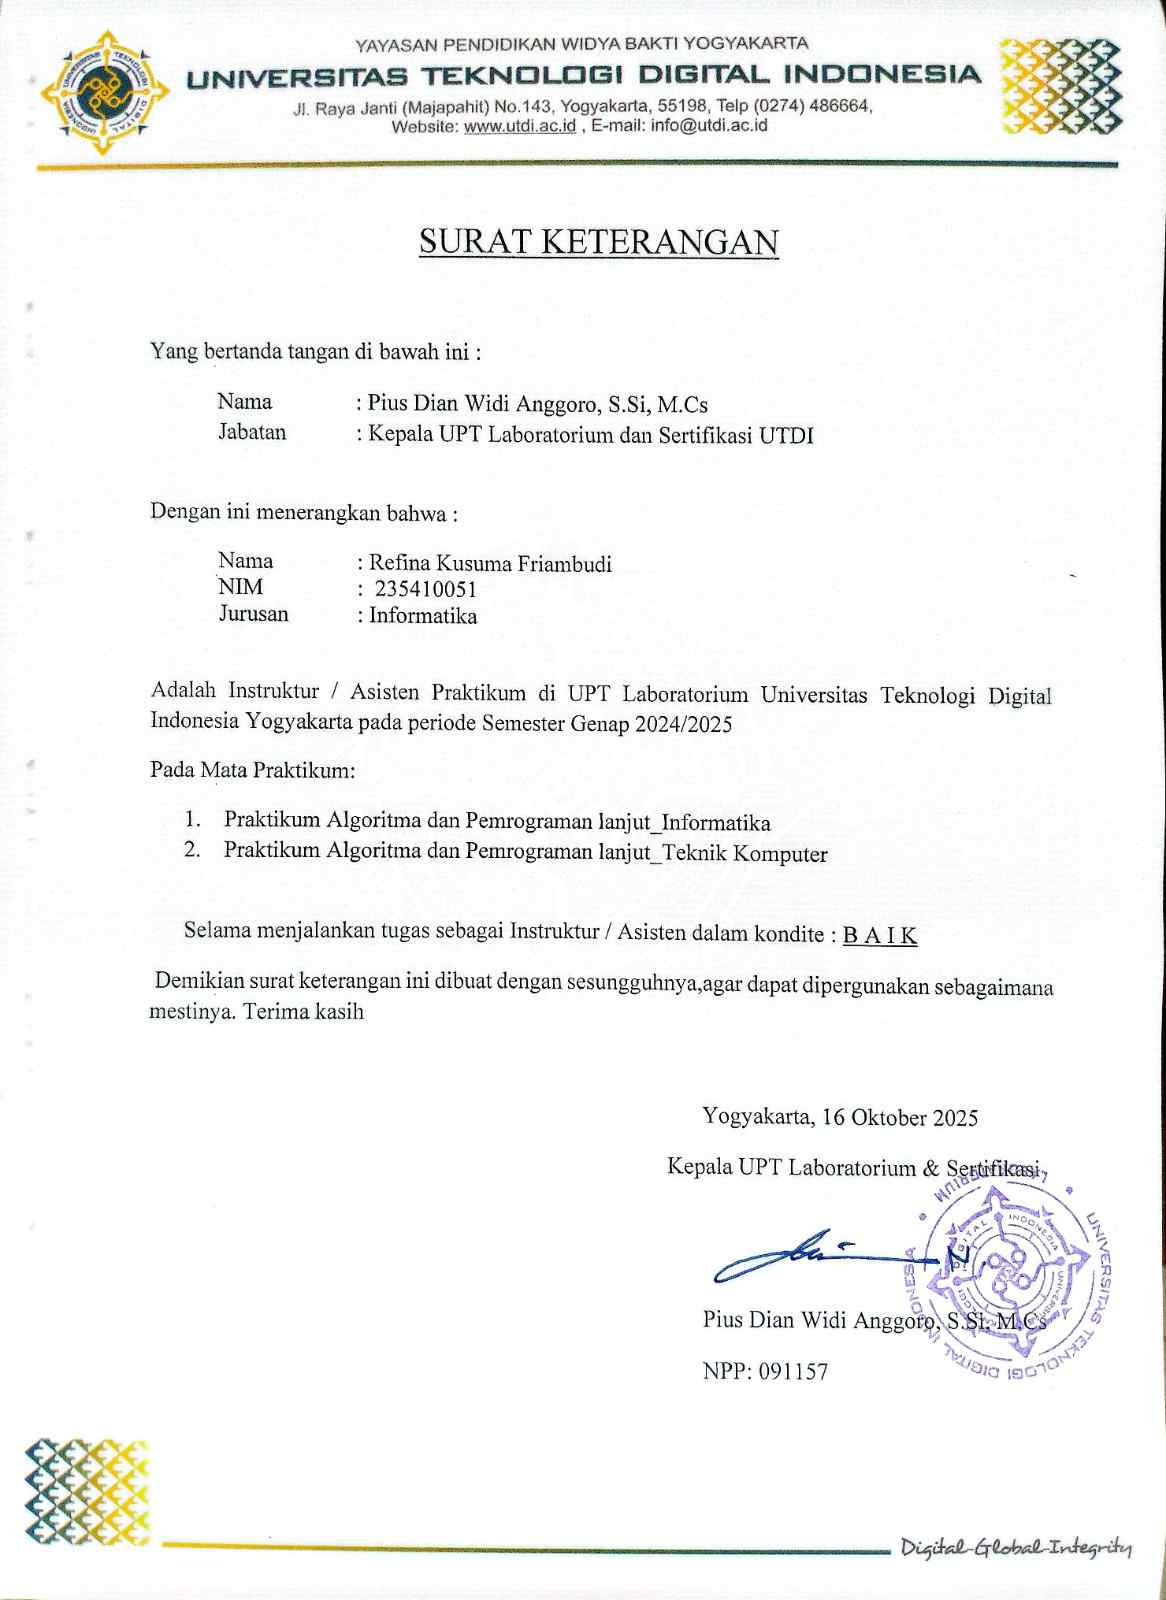
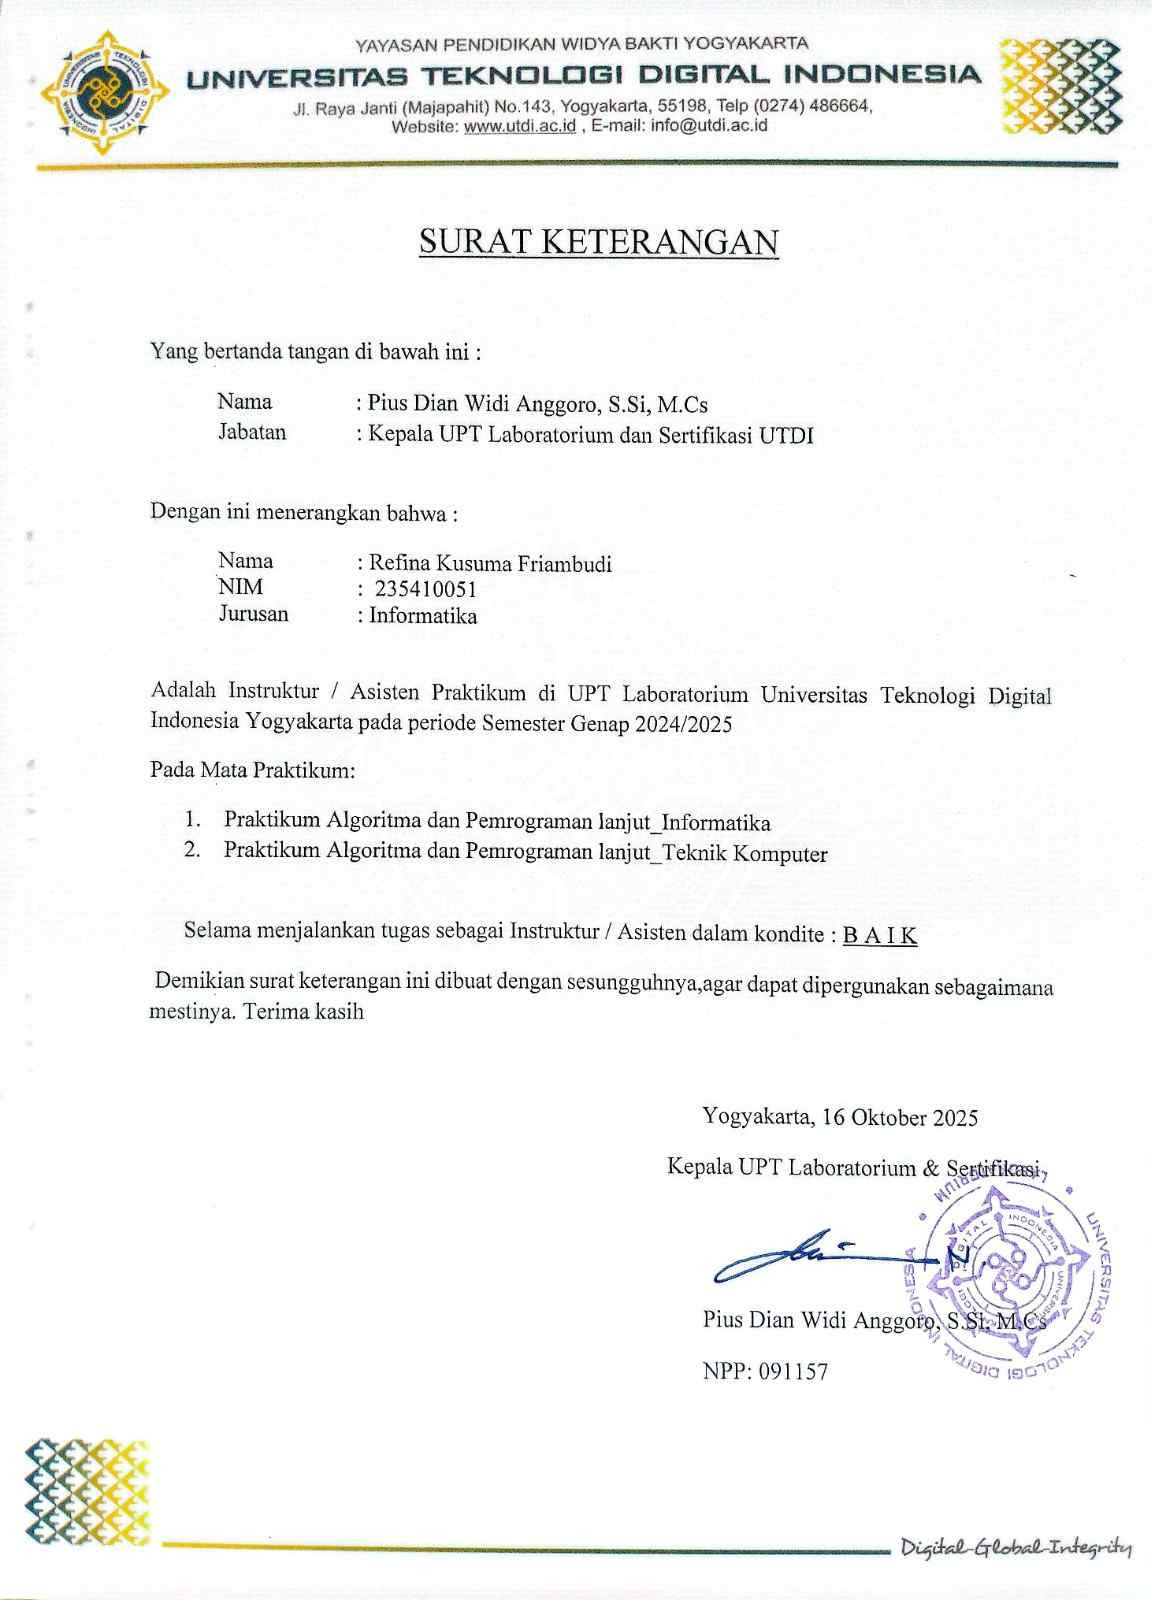
feat: implement Experience component with tabbed interface for career milestones, technical stack, and certificates

diff --git a/src/components/Experience.jsx b/src/components/Experience.jsx
@@ -29,7 +29,7 @@ const EXPERIENCE_ITEMS = [
     period: "2023 - 2024",
     title: "Assistant Lecturer",
     organization: "Advanced Algorithm and Programming Practicum (2024)",
-    color: "#f3e8ff", // Soft purple paper
+    color: "#ffffff", // Pure white for clean contrast
     certificate: {
       label: "Practicum Assistant Certificate",
       detail: "Klik untuk melihat sertifikat yang diperoleh pada kegiatan Advanced Algorithm and Programming Practicum (2024).",
@@ -44,7 +44,7 @@ const EXPERIENCE_ITEMS = [
     period: "2023 - 2024",
     title: "Secretary",
     organization: "Informatics & Computer Student Activity Unit",
-    color: "#d8b4fe", // Medium lilac paper
+    color: "#f3e8ff", // Soft Lilac (Purple-100)
     certificate: {
       label: "Secretary Certificate",
       detail: "Klik untuk melihat sertifikat yang terkait dengan administrasi organisasi dan kegiatan internal.",
@@ -56,11 +56,11 @@ const EXPERIENCE_ITEMS = [
     ],
   },
   {
-    period: "2024 - Until Now",
+    period: "2025 - Until Now",
     title: "Web Developer Intern",
     organization: "Internship Team Project",
-    color: "#a855f7", // Deep purple paper
-    dark: true,
+    color: "#e9d5ff", // Muted Purple (Purple-200)
+    dark: false,
     points: [
       "Developed an internship monitoring system to track student activities and progress in real-time, while building responsive interfaces with React.js, optimizing performance through reusable components, and designing user-friendly dashboards for efficient monitoring and reporting.",
     ],
@@ -118,17 +118,21 @@ export default function Experience() {
     },
   };
 
+  const itemVariants = {
+    hidden: { opacity: 0, y: 30 },
+    visible: { opacity: 1, y: 0, transition: { duration: 0.8, ease: cubicBezier } }
+  };
+
+
   return (
-    <section id="experience" className="bg-[#e9d5ff] min-h-screen py-32 px-6 md:px-16 relative overflow-hidden">
-      {/* ─── SMOOTH SECTION TRANSITION: About Me → Experience ─── */}
-      {/* Fades from About Me cream (#F5EFE6) into the lilac background */}
-      <div 
-        className="absolute top-0 left-0 right-0 pointer-events-none z-0"
-        style={{
-          height: "280px",
-          background: "linear-gradient(to bottom, #F5EFE6 0%, #efe1ff 40%, transparent 100%)"
-        }}
-      />
+    <section 
+      id="experience" 
+      className="min-h-screen py-32 px-6 md:px-16 relative overflow-hidden"
+      style={{
+        background:
+          "linear-gradient(180deg, #F5EFE6 0%, #fdfaff 25%, #f3e8ff 60%, #e9d5ff 100%)",
+      }}
+    >
 
       {/* ─── DECORATIVE GRAIN ─── */}
       <div className="absolute inset-0 pointer-events-none opacity-[0.03] grain-texture" />
@@ -213,7 +217,7 @@ export default function Experience() {
                         <motion.button
                           whileHover={{ scale: 1.05, backgroundColor: item.dark ? "#ffffff" : "#2e1065", color: item.dark ? "#2e1065" : "#fdfaff" }}
                           whileTap={{ scale: 0.95 }}
-                          onClick={() => setSelectedCert(item.certificate)}
+                          onClick={() => setSelectedCert(item)}
                           className={`px-6 py-2 rounded-full border text-[9px] md:text-[10px] font-black tracking-[0.2em] transition-all duration-300 uppercase bg-transparent ${item.dark ? "border-white/60 text-white" : "border-[#2e1065]/40 text-[#2e1065]"}`}
                         >
                           View
@@ -263,7 +267,7 @@ export default function Experience() {
                           whileInView={{ opacity: 1, y: 0 }}
                           viewport={{ once: true }}
                           transition={{ duration: 0.9, ease: cubicBezier, delay: 0.4 + index * 0.1 }}
-                          className={`text-sm md:text-lg leading-relaxed font-light max-w-md ${item.dark ? "text-white/80" : "text-[#2e1065]/60"}`}
+                          className={`text-sm md:text-lg leading-relaxed font-light max-w-md text-justify ${item.dark ? "text-white/80" : "text-[#2e1065]/60"}`}
                         >
                           {item.points.map((point, pIndex) => (
                             <p key={pIndex}>{point}</p>
@@ -350,16 +354,18 @@ export default function Experience() {
                   <motion.div 
                     key={index} 
                     variants={itemVariants} 
-                    whileHover={{ y: -5 }}
-                    className="bg-white p-10 rounded-3xl shadow-[0_4px_20px_rgba(44,43,40,0.03)] hover:shadow-[0_15px_30px_rgba(44,43,40,0.05)] transition-all duration-500 border border-[#2e1065]/5"
+                    className="group relative bg-white/60 backdrop-blur-xl p-10 md:p-12 rounded-[32px] border border-white/50 shadow-[0_10px_40px_rgba(46,16,101,0.05)] hover:shadow-[0_20px_60px_rgba(46,16,101,0.1)] hover:-translate-y-1 transition-all duration-500"
                   >
-                    <h3 className="font-serif font-black text-2xl text-[#2e1065] mb-3">{group.title}</h3>
-                    <p className="text-sm md:text-base text-[#2e1065]/50 mb-8 leading-relaxed font-light">{group.summary}</p>
-                    <div className="flex flex-wrap gap-3">
+                    <div className="flex items-center gap-4 mb-6">
+                      <span className="text-[10px] font-black tracking-[0.2em] uppercase text-[#a855f7]/80">0{index + 1}</span>
+                      <h3 className="font-serif font-black text-2xl md:text-3xl text-[#2e1065]">{group.title}</h3>
+                    </div>
+                    <p className="text-sm md:text-base text-[#2e1065]/60 mb-8 leading-relaxed font-light text-justify">{group.summary}</p>
+                    <div className="flex flex-wrap gap-2.5">
                       {group.items.map((tech, tIndex) => (
                         <span 
                           key={tIndex}
-                          className="px-4 py-2 bg-[#fdfaff]/50 text-[#2e1065] text-[10px] font-black uppercase tracking-widest rounded-lg border border-[#2e1065]/5 hover:bg-[#7e22ce] hover:text-white hover:border-[#7e22ce] transition-all duration-300 cursor-default"
+                          className="px-5 py-2.5 bg-[#2e1065]/5 text-[#2e1065] text-[10px] font-bold uppercase tracking-widest rounded-full hover:bg-[#2e1065] hover:text-white transition-colors duration-300 cursor-default"
                         >
                           {tech}
                         </span>
@@ -382,51 +388,65 @@ export default function Experience() {
             exit={{ opacity: 0 }}
             className="fixed inset-0 z-[100] flex items-center justify-center p-6 md:p-12"
           >
-            <div className="absolute inset-0 bg-[#2e1065]/80 backdrop-blur-md" onClick={() => setSelectedCert(null)} />
+            {/* Blurred Background Overlay */}
+            <div 
+              className="absolute inset-0 bg-[#fdfaff]/80 md:bg-[#fdfaff]/60 backdrop-blur-xl" 
+              onClick={() => setSelectedCert(null)} 
+            />
             
             <motion.div
-              initial={{ scale: 0.9, opacity: 0 }}
-              animate={{ scale: 1, opacity: 1 }}
-              exit={{ scale: 0.9, opacity: 0 }}
-              transition={{ type: "spring", stiffness: 300, damping: 25 }}
-              className="bg-[#fdfaff] w-full max-w-5xl rounded-3xl overflow-hidden shadow-2xl relative z-10 flex flex-col md:grid md:grid-cols-[1.2fr_0.8fr]"
+              initial={{ scale: 0.95, opacity: 0, y: 20 }}
+              animate={{ scale: 1, opacity: 1, y: 0 }}
+              exit={{ scale: 0.95, opacity: 0, y: 20 }}
+              transition={{ duration: 0.5, ease: cubicBezier }}
+              className="relative z-10 w-full max-w-7xl h-full flex flex-col md:flex-row items-center justify-center gap-8 md:gap-12 lg:gap-20 p-4 md:p-8"
             >
               {/* Close Button */}
               <button 
                 onClick={() => setSelectedCert(null)}
-                className="absolute top-4 right-4 w-10 h-10 rounded-full bg-white/20 hover:bg-white/40 flex items-center justify-center text-[#2e1065] z-20 transition-colors"
+                className="absolute top-2 right-2 md:top-8 md:right-8 w-12 h-12 rounded-full bg-white/20 hover:bg-white/40 flex items-center justify-center text-[#2e1065] z-50 transition-all duration-300 backdrop-blur-md shadow-sm border border-white/30"
               >
-                <svg width="20" height="20" viewBox="0 0 24 24" fill="none" stroke="currentColor" strokeWidth="2.5">
+                <svg width="22" height="22" viewBox="0 0 24 24" fill="none" stroke="currentColor" strokeWidth="2.5">
                   <path d="M18 6L6 18M6 6l12 12" />
                 </svg>
               </button>
 
-              {/* Image Side */}
-              <div className="bg-[#2e1065]/5 p-6 md:p-10 flex items-center justify-center">
-                <div className="bg-white p-2 md:p-4 shadow-xl rotate-[-1deg]">
-                  <img 
-                    src={selectedCert.image} 
-                    alt={selectedCert.label} 
-                    className="w-full h-auto max-h-[70vh] object-contain"
-                  />
-                </div>
+              {/* Main Certificate Image (Left: 60%) */}
+              <div className="relative w-full md:w-[60%] h-[40vh] md:h-full flex items-center justify-center lg:justify-end">
+                <motion.img 
+                  src={selectedCert.certificate.image} 
+                  alt={selectedCert.certificate.label} 
+                  className="w-auto h-auto max-w-full max-h-[85vh] object-contain shadow-[0_30px_80px_rgba(46,16,101,0.35)] rounded-md"
+                  whileHover={{ scale: 1.02 }}
+                  transition={{ duration: 0.5, ease: cubicBezier }}
+                />
               </div>
 
-              {/* Text Side */}
-              <div className="p-8 md:p-12 flex flex-col justify-center">
-                <span className="text-[10px] font-bold tracking-widest text-[#7e22ce] uppercase mb-2">CERTIFICATE DETAILS</span>
-                <h3 className="text-2xl md:text-3xl font-serif font-black text-[#2e1065] mb-6 leading-tight">
-                  {selectedCert.label}
-                </h3>
-                <div className="space-y-4">
-                  <p className="text-sm md:text-base leading-relaxed text-[#2e1065]/80">
-                    {selectedCert.detail}
-                  </p>
-                </div>
-                <div className="mt-auto pt-10">
-                  <div className="flex items-center gap-4">
-                    <div className="w-12 h-[1px] bg-[#7e22ce]/40" />
-                    <span className="font-handwriting text-xl text-[#7e22ce]">Refina Kusuma</span>
+              {/* Metadata Panel (Right: 40%) */}
+              <div className="w-full md:w-[40%] flex flex-col justify-center items-center md:items-start max-w-md">
+                <div className="w-full bg-white/70 backdrop-blur-xl p-8 md:p-12 rounded-[32px] border border-white/40 shadow-[0_10px_30px_rgba(111,76,255,0.08)] flex flex-col gap-8">
+                  {/* ROLE */}
+                  <div className="flex flex-col gap-2">
+                    <p className="text-[9px] font-black tracking-[0.25em] uppercase text-[#a855f7]/80">Role</p>
+                    <p className="text-xl md:text-2xl font-serif font-bold text-[#2e1065] leading-snug">{selectedCert.title}</p>
+                  </div>
+                  
+                  {/* YEAR */}
+                  <div className="flex flex-col gap-2">
+                    <p className="text-[9px] font-black tracking-[0.25em] uppercase text-[#a855f7]/80">Year</p>
+                    <p className="text-xl md:text-2xl font-serif font-bold text-[#2e1065] leading-snug">{selectedCert.period}</p>
+                  </div>
+
+                  {/* INSTITUTION */}
+                  <div className="flex flex-col gap-2">
+                    <p className="text-[9px] font-black tracking-[0.25em] uppercase text-[#a855f7]/80">Institution</p>
+                    <p className="text-[15px] md:text-base font-medium text-[#2e1065]/90 leading-snug">{selectedCert.organization}</p>
+                  </div>
+
+                  {/* CREDENTIAL */}
+                  <div className="flex flex-col gap-2">
+                    <p className="text-[9px] font-black tracking-[0.25em] uppercase text-[#a855f7]/80">Credential</p>
+                    <p className="text-[15px] md:text-base font-medium text-[#2e1065]/90 leading-snug">{selectedCert.certificate.label}</p>
                   </div>
                 </div>
               </div>
